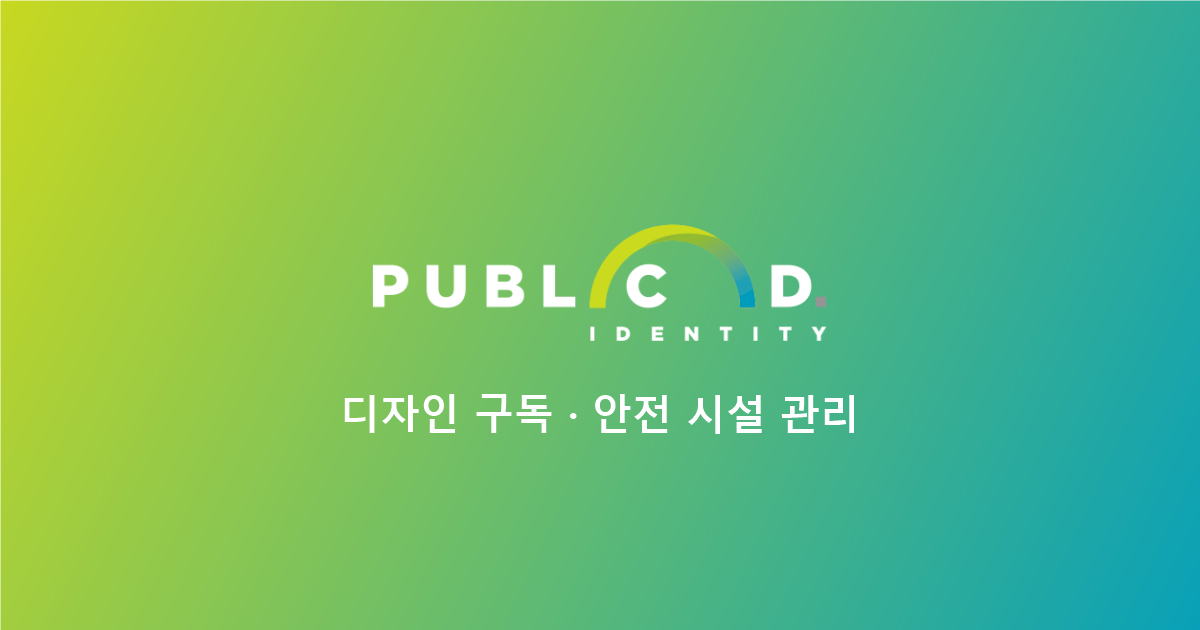
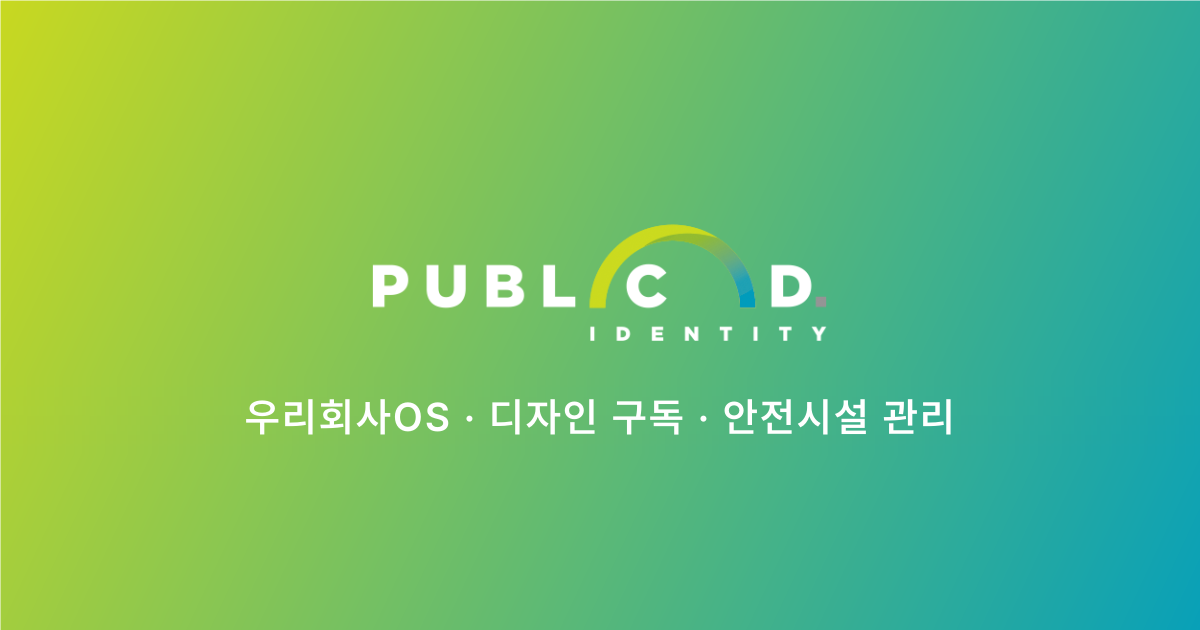
홈 첫 화면에 디자인 시안 레퍼런스 4건 줄(시안 사이트에서 1시간마다 읽어 옴) · 공유 미리보기 그림 글자에 우리회사OS (대표 11-19 "진행해줘 모두")
Claude-Session: https://claude.ai/code/session_013TJ95HFXzWaeGp5srpFwyb

Changed region(s): [[0.185, 0.6032, 0.8017, 0.6937]]

diff --git a/src/components/sections/DesignRefStrip.tsx b/src/components/sections/DesignRefStrip.tsx
@@ -1,0 +1,61 @@
+import Container from "@/components/Container";
+import { site } from "@/lib/site";
+
+type DesignRef = { title: string; kind?: string; date: string; url: string; thumb: string };
+
+// 디자인 시안 레퍼런스 최근 4건 — 시안 사이트(public-greensign.com)의 레퍼런스에 올린 것이 1시간 안에 여기에도 따라온다
+// (2026-11-19 대표 "홈페이지 첫 화면에 디자인 결과물을 그림으로"). 작품 줄(ShowcaseStrip) 바로 아래 같은 흰 면에 이어 붙는다.
+// 불러오기 실패·0건이면 아무것도 그리지 않는다(NaverBlogFeed와 같은 방식).
+export default async function DesignRefStrip() {
+  let refs: DesignRef[];
+  try {
+    const res = await fetch(`${site.designShare}/refs.json`, { next: { revalidate: 3600 } });
+    if (!res.ok) return null;
+    refs = ((await res.json()) as DesignRef[]).slice(0, 4);
+  } catch {
+    return null;
+  }
+  if (!refs.length) return null;
+
+  return (
+    <section className="bg-white pb-20 sm:pb-28">
+      <Container className="pt-8 sm:pt-12">
+        <div className="flex flex-wrap items-end justify-between gap-x-6 gap-y-2">
+          <h3 className="break-keep text-xl font-bold text-ink">디자인 시안 레퍼런스</h3>
+          <a
+            href={site.designShare}
+            target="_blank"
+            rel="noopener"
+            className="text-sm font-semibold text-teal-700 hover:underline"
+          >
+            시안 레퍼런스 전체 보기 →
+          </a>
+        </div>
+        <ul className="mt-6 grid grid-cols-2 gap-x-4 gap-y-8 lg:grid-cols-4 lg:gap-x-6">
+          {refs.map((r) => (
+            <li key={r.url}>
+              <a href={r.url} target="_blank" rel="noopener" className="group block">
+                <span className="relative block aspect-[4/3] overflow-hidden rounded-2xl border border-line bg-cloud">
+                  {/* eslint-disable-next-line @next/next/no-img-element */}
+                  <img
+                    src={r.thumb}
+                    alt=""
+                    loading="lazy"
+                    decoding="async"
+                    className="absolute inset-3 h-[calc(100%-1.5rem)] w-[calc(100%-1.5rem)] object-contain transition duration-500 group-hover:scale-[1.03]"
+                  />
+                </span>
+                {r.kind ? (
+                  <span className="mt-3 block text-xs font-semibold text-teal-700">{r.kind}</span>
+                ) : null}
+                <span className="mt-1 block break-keep text-[15px] font-bold leading-snug text-ink">
+                  {r.title}
+                </span>
+              </a>
+            </li>
+          ))}
+        </ul>
+      </Container>
+    </section>
+  );
+}

diff --git a/src/app/page.tsx b/src/app/page.tsx
@@ -3,6 +3,7 @@ import { pageMeta } from "@/lib/seo";
 import Hero from "@/components/sections/Hero";
 import TrustBar from "@/components/sections/TrustBar";
 import ShowcaseStrip from "@/components/sections/ShowcaseStrip";
+import DesignRefStrip from "@/components/sections/DesignRefStrip";
 import ProductGateway from "@/components/sections/ProductGateway";
 import ProofSection from "@/components/sections/ProofSection";
 import PlayStrip from "@/components/sections/PlayStrip";
@@ -63,6 +64,8 @@ export default function Home() {
       <TrustBar />
       <ProductGateway />
       <ShowcaseStrip />
+      {/* 2026-11-19 디자인 시안 레퍼런스 최근 4건(시안 사이트에서 읽어 옴) — 작품 줄과 같은 흰 면에 이어 붙는다 */}
+      <DesignRefStrip />
       {/* 2026-10-08 엑사 구조 대조 — 근거(미끄럼저항·시험·실적·인증) 탭. 고객사 이름 줄은 TrustBar */}
       <ProofSection />
       {/* 2026-09-08 체류시간 기획안 — 만질거리(위험 찾기·캠페인 게임·안전 점수) + 영상 3칸(2026-11-17 한 섹션) */}
